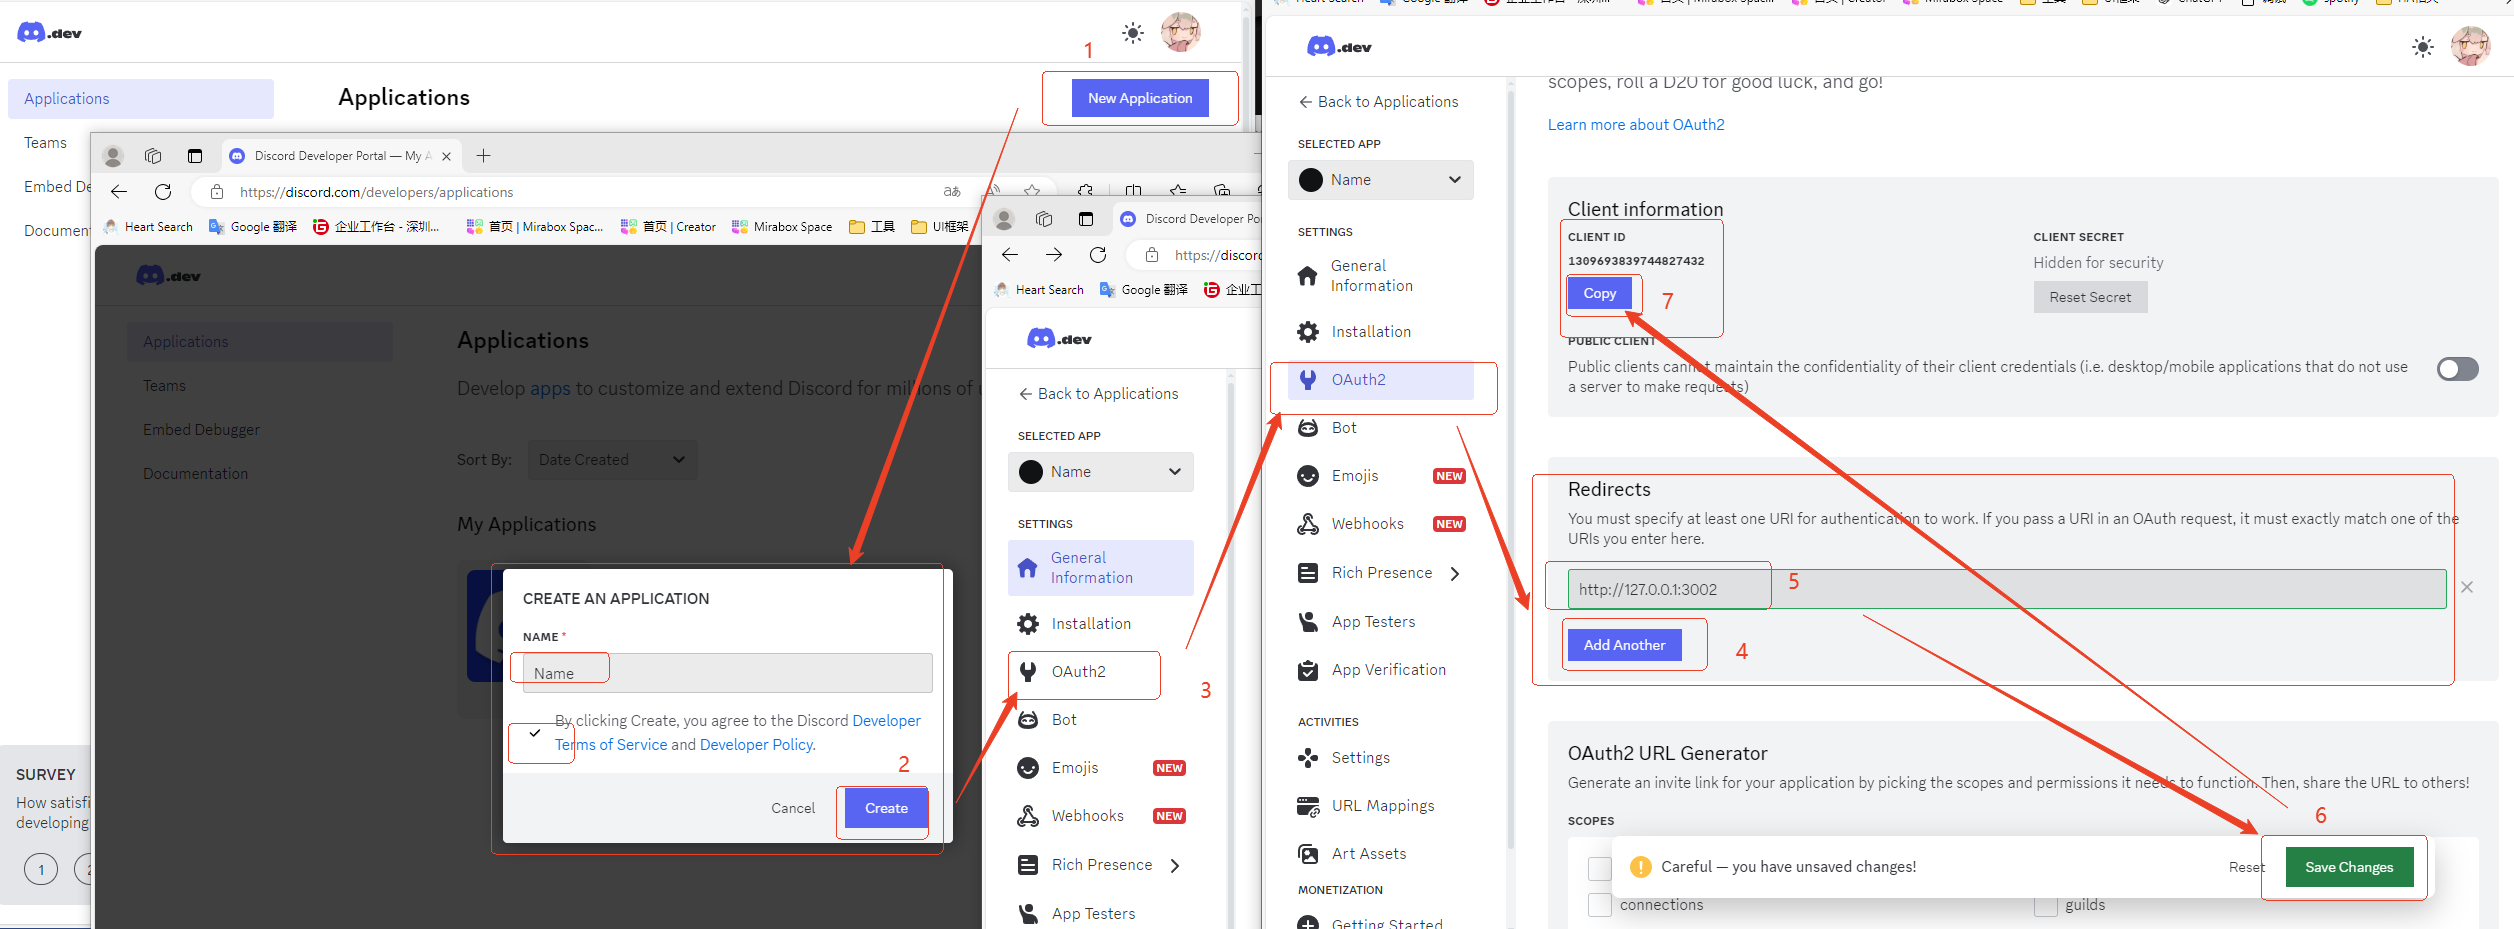
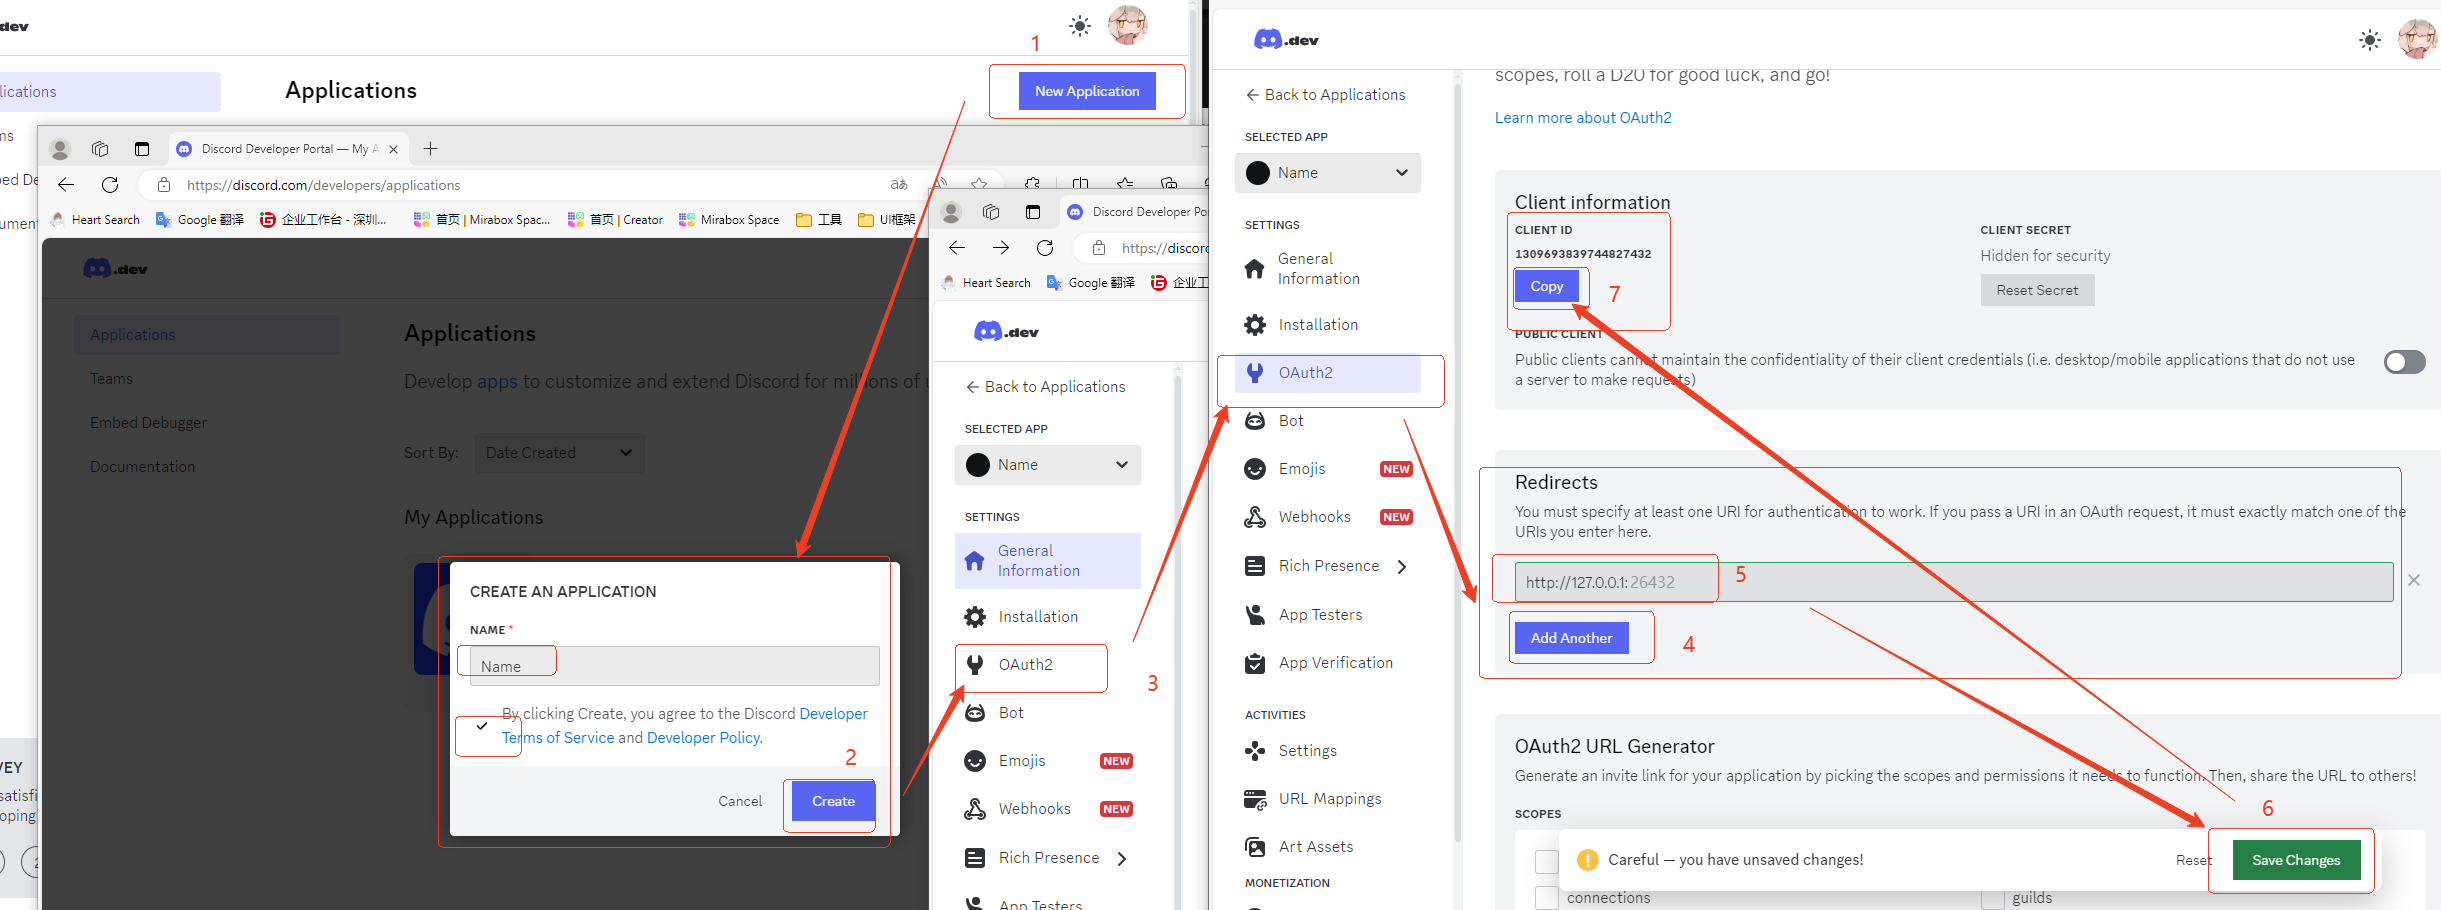
1. Added voice channel exit function 2. Fixed the bug that microphone muting and headphone muting triggered additional sound effects 3. Modified the service port to an uncommon port

diff --git a/com.mirabox.streamdock.discord.sdPlugin/plugin/index.js b/com.mirabox.streamdock.discord.sdPlugin/plugin/index.js
@@ -160,11 +160,12 @@ plugin.mute = new Actions({
                     if (res?.mute) {
                         plugin.setState(context, 1);
                     } else {
-                        plugin.setState(context, 0);
-                    }
-                    //只要耳机静音麦克风必须静音
-                    if (res?.deaf) {
-                        plugin.setState(context, 1);
+                        //只要耳机静音麦克风必须静音
+                        if (res?.deaf) {
+                            plugin.setState(context, 1)
+                        } else {
+                            plugin.setState(context, 0)
+                        }
                     }
                 }).catch((error) => {
                     log.error('getVoiceSettings failed:', error);
@@ -177,12 +178,11 @@ plugin.mute = new Actions({
                             // log.info(data)
                             plugin.setState(context, 1)
                         } else {
-                            plugin.setState(context, 0)
-                        }
-                        //耳机静音的时候进入了这，但是麦克风mute=true所以图标没改
-                        //所以做一下处理只要耳机静音麦克风必须静音
-                        if (data?.deaf) {
-                            plugin.setState(context, 1)
+                            if (data?.deaf) {
+                                plugin.setState(context, 1)
+                            } else {
+                                plugin.setState(context, 0)
+                            }
                         }
                     } catch (error) {
                         log.error(error);
@@ -208,8 +208,9 @@ plugin.mute = new Actions({
             //设置麦克风静音或解除静音
             client?.getVoiceSettings().then((res) => {
                 try {
+                    log.info(res)
                     res.mute = !res.mute
-                    client?.setVoiceSettings(res)
+                    client?.setVoiceSettings({ mute: res.mute })
                     // log.info("设置VoiceSettings")
                     if (res.mute) {
                         plugin.setState(context, 1)
@@ -275,10 +276,7 @@ plugin.deaf = new Actions({
         //设置耳机静音或解除静音
         client?.getVoiceSettings().then((res) => {
             res.deaf = !res.deaf
-            if (res.deaf) {
-                res.mute = true
-            }
-            client?.setVoiceSettings(res)
+            client?.setVoiceSettings({ deaf: res.deaf })
             if (res.deaf) {
                 plugin.setState(context, 1)
             } else {
@@ -539,14 +537,36 @@ plugin.voicechannel = new Actions({
     },
     keyUp({ context, payload }) {
         // log.info(payload)
-        client?.selectVoiceChannel(payload.settings.channel).then((res) => {
-            log.info("连接语音通道：" + payload.settings.channel)
-        }).catch((error) => {
-            if (error.code == 5003) {
+        client?.GET_SELECTED_VOICE_CHANNEL().then((res) => {
+            if (res == undefined || res == null) {
+                client?.selectVoiceChannel(payload.settings.channel).then((res) => {
+                    log.info("连接语音通道：" + payload.settings.channel)
+                    plugin.showOk(context);
+                }).catch((error) => {
+                    if (error.code == 4006) {
+                        plugin.showAlert(context);
+                    }
+                    log.error('getChannels failed:', error);
+                });
                 return;
             }
-            log.error('getChannels failed:', error);
+            if (res.id == payload.settings.channel) {
+                client?.selectVoiceChannel(null).then((res) => { });
+                plugin.showOk(context);
+            } else {
+                client?.selectVoiceChannel(null).then((res) => { });
+                client?.selectVoiceChannel(payload.settings.channel).then((res) => {
+                    plugin.showOk(context);
+                    log.info("连接语音通道：" + payload.settings.channel)
+                }).catch((error) => {
+                    if (error.code == 4006) {
+                        plugin.showAlert(context);
+                    }
+                    log.error('getChannels failed:', error);
+                });
+            }
         });
+
     },
 });
 
@@ -1082,7 +1102,7 @@ function startServer() {
 
     const app = express();
     app.use(cors());
-    const port = 3002;
+    const port = 26432;
 
     app.get('/', async (req, res) => {
         log.info('callback')
@@ -1094,8 +1114,8 @@ function startServer() {
     app.get('/authorization', (req, res) => {
         // log.info(req.query)
         id = req.query.clientId
-        res.redirect(`https://discord.com/oauth2/authorize?client_id=${id}&response_type=token&redirect_uri=http%3A%2F%2F127.0.0.1%3A3002&scope=identify+rpc+rpc.voice.read+rpc.notifications.read+messages.read+rpc.voice.write`)
-        // res.redirect(`https://discord.com/oauth2/authorize?client_id=${id}&response_type=token&redirect_uri=http%3A%2F%2F127.0.0.1%3A3002&scope=identify+rpc+rpc.voice.read+messages.read+rpc.notifications.read+rpc.voice.write`)
+        res.redirect(`https://discord.com/oauth2/authorize?client_id=${id}&response_type=token&redirect_uri=http%3A%2F%2F127.0.0.1%3A26432&scope=identify+rpc+rpc.voice.read+rpc.notifications.read+messages.read+rpc.voice.write`)
+        // res.redirect(`https://discord.com/oauth2/authorize?client_id=${id}&response_type=token&redirect_uri=http%3A%2F%2F127.0.0.1%3A26432&scope=identify+rpc+rpc.voice.read+messages.read+rpc.notifications.read+rpc.voice.write`)
     })
 
 

diff --git a/com.mirabox.streamdock.discord.sdPlugin/propertyInspector/utils/authorization.html b/com.mirabox.streamdock.discord.sdPlugin/propertyInspector/utils/authorization.html
@@ -55,12 +55,18 @@
             cursor: pointer;
         }
 
-        .info{
+        .info,
+        .info2 {
             cursor: pointer;
             color: rgb(88, 101, 242);
             line-height: 30px;
             display: flex;
             justify-content: center;
+            text-align: center;
+        }
+
+        .info2 {
+            color: red;
         }
     </style>
 </head>
@@ -80,6 +86,7 @@
             <button class="sdpi-item-value" id="authorizeBtn">请求授权</button>
         </div>
         <span class="info">View the tutorial</span>
+        <span class="info2">info</span>
     </form>
 </body>
 <script>
@@ -87,7 +94,7 @@
     const clientId = document.querySelector("#clientId");
     document.querySelector("#authorizeBtn").addEventListener('click', (e) => {
         if (clientId.value != null && clientId.value != '') {
-            $websocket.openUrl("http://127.0.0.1:3002/authorization?clientId=" + clientId.value)
+            $websocket.openUrl("http://127.0.0.1:26432/authorization?clientId=" + clientId.value)
             window.close();
         }
     })
@@ -119,8 +126,8 @@
             item.placeholder = $lang[item.placeholder];
         }
     };
-    $('input', true).forEach(translate);
-    $('textarea', true).forEach(translate);
+    document.querySelectorAll('input').forEach(translate);
+    document.querySelectorAll('textarea').forEach(translate);
 </script>
 
 </html>

diff --git a/com.mirabox.streamdock.discord.sdPlugin/plugin/utils/plugin.js b/com.mirabox.streamdock.discord.sdPlugin/plugin/utils/plugin.js
@@ -9,11 +9,11 @@ const log = require('log4js').configure({
     }
 }).getLogger();
 
-// 主线程同步错误处理
-process.on('uncaughtException', (err) => {
-    log.error("系统错误", err);
-    process.exit();
-});
+// // 主线程同步错误处理
+// process.on('uncaughtException', (err) => {
+//     log.error("系统错误", err);
+//     process.exit();
+// });
 
 // 插件类
 const ws = require('ws');
@@ -83,6 +83,20 @@ class Plugins {
         this.ws.send(JSON.stringify({
             event: "setSettings",
             context, payload
+        }));
+    }
+
+    showAlert(context) {
+        this.ws.send(JSON.stringify({
+            event: "showAlert",
+            context
+        }));
+    }
+
+    showOk(context) {
+        this.ws.send(JSON.stringify({
+            event: "showOk",
+            context
         }));
     }
     // 发送给属性检测器

diff --git a/com.mirabox.streamdock.discord.sdPlugin/propertyInspector/pushtomute/index.js b/com.mirabox.streamdock.discord.sdPlugin/propertyInspector/pushtomute/index.js
@@ -78,7 +78,7 @@ const $propEvent = {
 
 $dom.authorizeBtn.on('click', (e) => {
     if ($dom.clientId.value != null && $dom.clientId.value != '') {
-        $websocket.openUrl("http://127.0.0.1:3002/authorization?clientId=" + $dom.clientId.value)
+        $websocket.openUrl("http://127.0.0.1:26432/authorization?clientId=" + $dom.clientId.value)
     }
 })
 

diff --git a/com.mirabox.streamdock.discord.sdPlugin/propertyInspector/pushtotalk/index.js b/com.mirabox.streamdock.discord.sdPlugin/propertyInspector/pushtotalk/index.js
@@ -43,7 +43,7 @@ const $propEvent = {
 
 $dom.authorizeBtn.on('click', (e) => {
     if ($dom.clientId.value != null && $dom.clientId.value != '') {
-        $websocket.openUrl("http://127.0.0.1:3002/authorization?clientId=" + $dom.clientId.value)
+        $websocket.openUrl("http://127.0.0.1:26432/authorization?clientId=" + $dom.clientId.value)
     }
 })
 

diff --git a/com.mirabox.streamdock.discord.sdPlugin/plugin/callback.html b/com.mirabox.streamdock.discord.sdPlugin/plugin/callback.html
@@ -40,7 +40,7 @@
 
     localStorage.setItem('oauth2_token', data);
 
-    axios.post('http://localhost:3002/data', data)
+    axios.post('http://localhost:26432/data', data)
       .then(res => {
         console.log(res.data);
       })

diff --git a/com.mirabox.streamdock.discord.sdPlugin/propertyInspector/action1/index.js b/com.mirabox.streamdock.discord.sdPlugin/propertyInspector/action1/index.js
@@ -37,7 +37,7 @@ const $propEvent = {
 
 
 $dom.logout.on('click', () => {
-    $websocket.openUrl('http://127.0.0.1:3002/logout')
+    $websocket.openUrl('http://127.0.0.1:26432/logout')
 })
 
 $dom.search.on('input', (e) => {

diff --git a/com.mirabox.streamdock.discord.sdPlugin/propertyInspector/setDevices/index.js b/com.mirabox.streamdock.discord.sdPlugin/propertyInspector/setDevices/index.js
@@ -63,7 +63,7 @@ const $propEvent = {
 
 
 $dom.logout.on('click', () => {
-    $websocket.openUrl('http://127.0.0.1:3002/logout')
+    $websocket.openUrl('http://127.0.0.1:26432/logout')
 })
 
 $dom.mode.on('change', (e) => {

diff --git a/com.mirabox.streamdock.discord.sdPlugin/propertyInspector/userVolumeControl/index.js b/com.mirabox.streamdock.discord.sdPlugin/propertyInspector/userVolumeControl/index.js
@@ -119,7 +119,7 @@ $dom.volume.on('change', (e) => {
 })
 
 $dom.logout.on('click', () => {
-    $websocket.openUrl('http://127.0.0.1:3002/logout')
+    $websocket.openUrl('http://127.0.0.1:26432/logout')
 })
 
 

diff --git a/com.mirabox.streamdock.discord.sdPlugin/propertyInspector/textchannel/index.js b/com.mirabox.streamdock.discord.sdPlugin/propertyInspector/textchannel/index.js
@@ -66,5 +66,5 @@ $dom.select2.on('change', (e) => {
 })
 
 $dom.logout.on('click', () => {
-    $websocket.openUrl('http://127.0.0.1:3002/logout')
+    $websocket.openUrl('http://127.0.0.1:26432/logout')
 })

diff --git a/com.mirabox.streamdock.discord.sdPlugin/propertyInspector/voicechannel/index.js b/com.mirabox.streamdock.discord.sdPlugin/propertyInspector/voicechannel/index.js
@@ -65,5 +65,5 @@ $dom.select2.on('change', (e) => {
 })
 
 $dom.logout.on('click', () => {
-    $websocket.openUrl('http://127.0.0.1:3002/logout')
+    $websocket.openUrl('http://127.0.0.1:26432/logout')
 })

diff --git a/com.mirabox.streamdock.discord.sdPlugin/propertyInspector/volumeControl/index.js b/com.mirabox.streamdock.discord.sdPlugin/propertyInspector/volumeControl/index.js
@@ -59,5 +59,5 @@ $dom.slider.on('change', (e) => {
 })
 
 $dom.logout.on('click', () => {
-    $websocket.openUrl('http://127.0.0.1:3002/logout')
+    $websocket.openUrl('http://127.0.0.1:26432/logout')
 })
